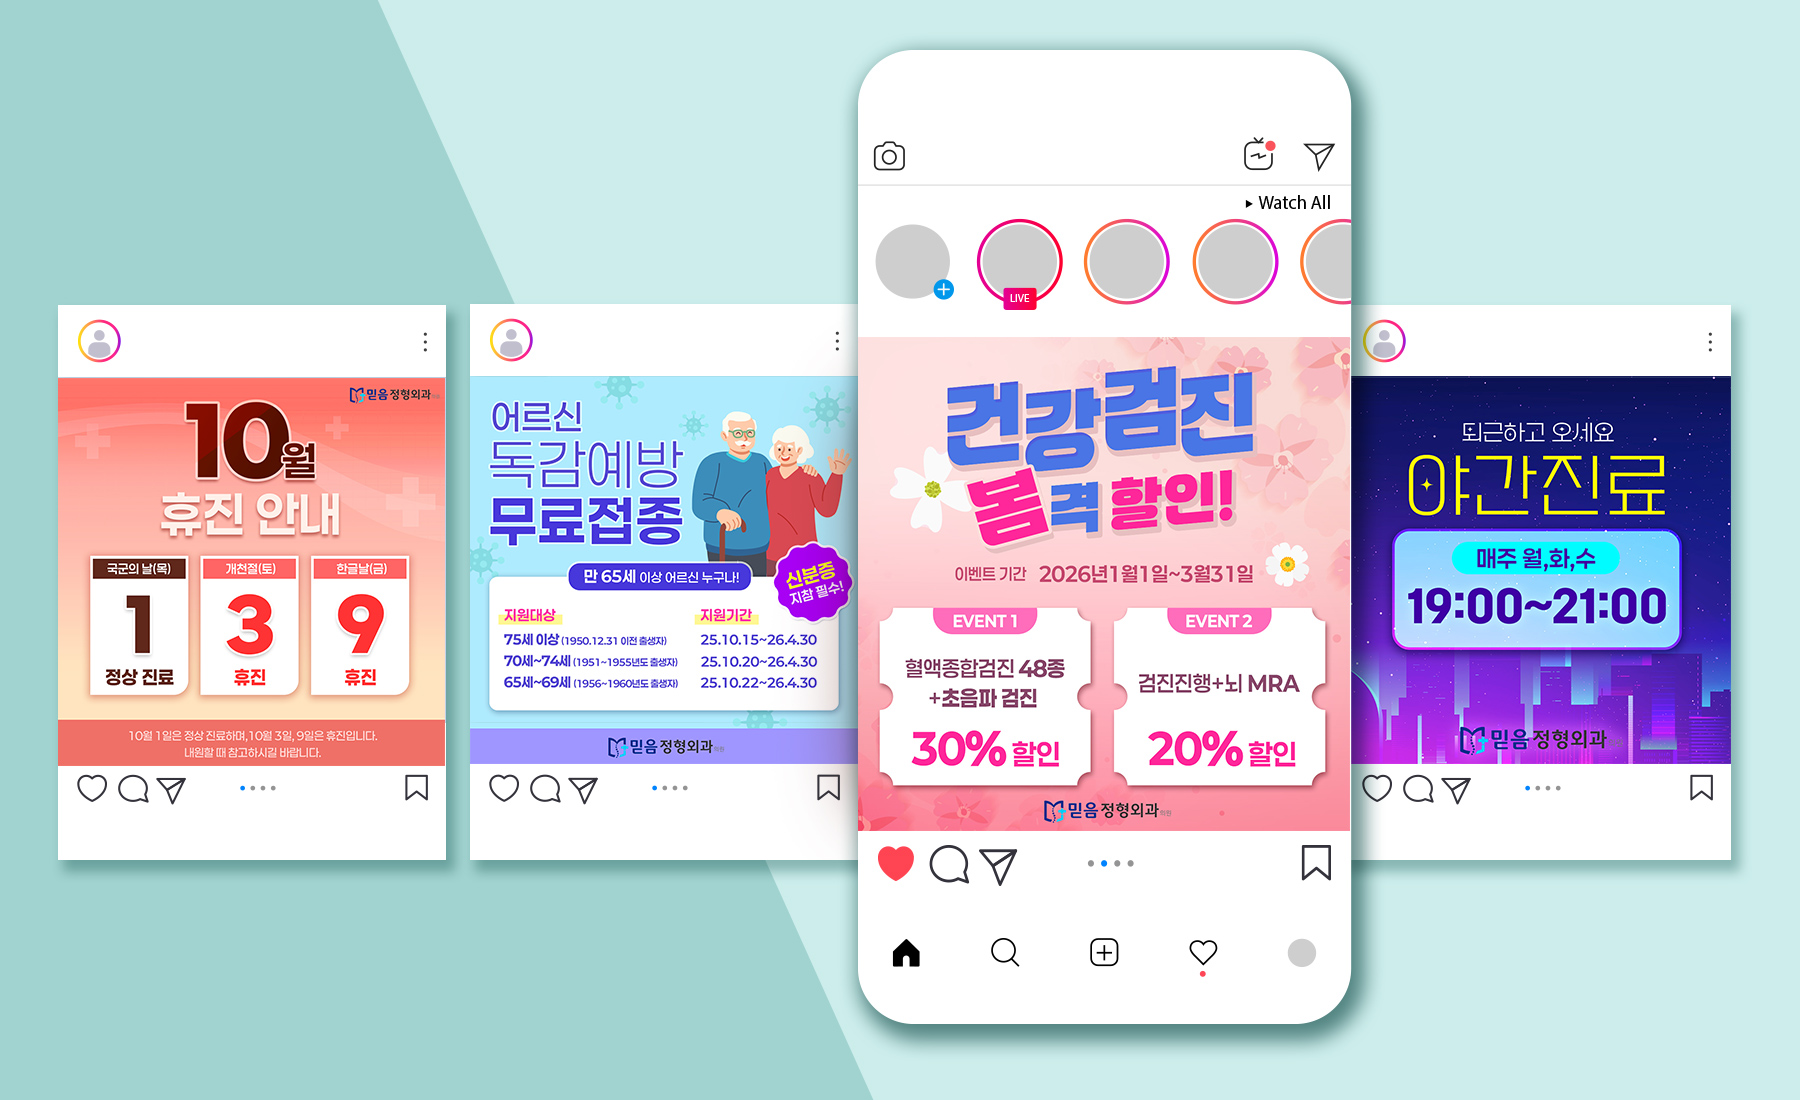
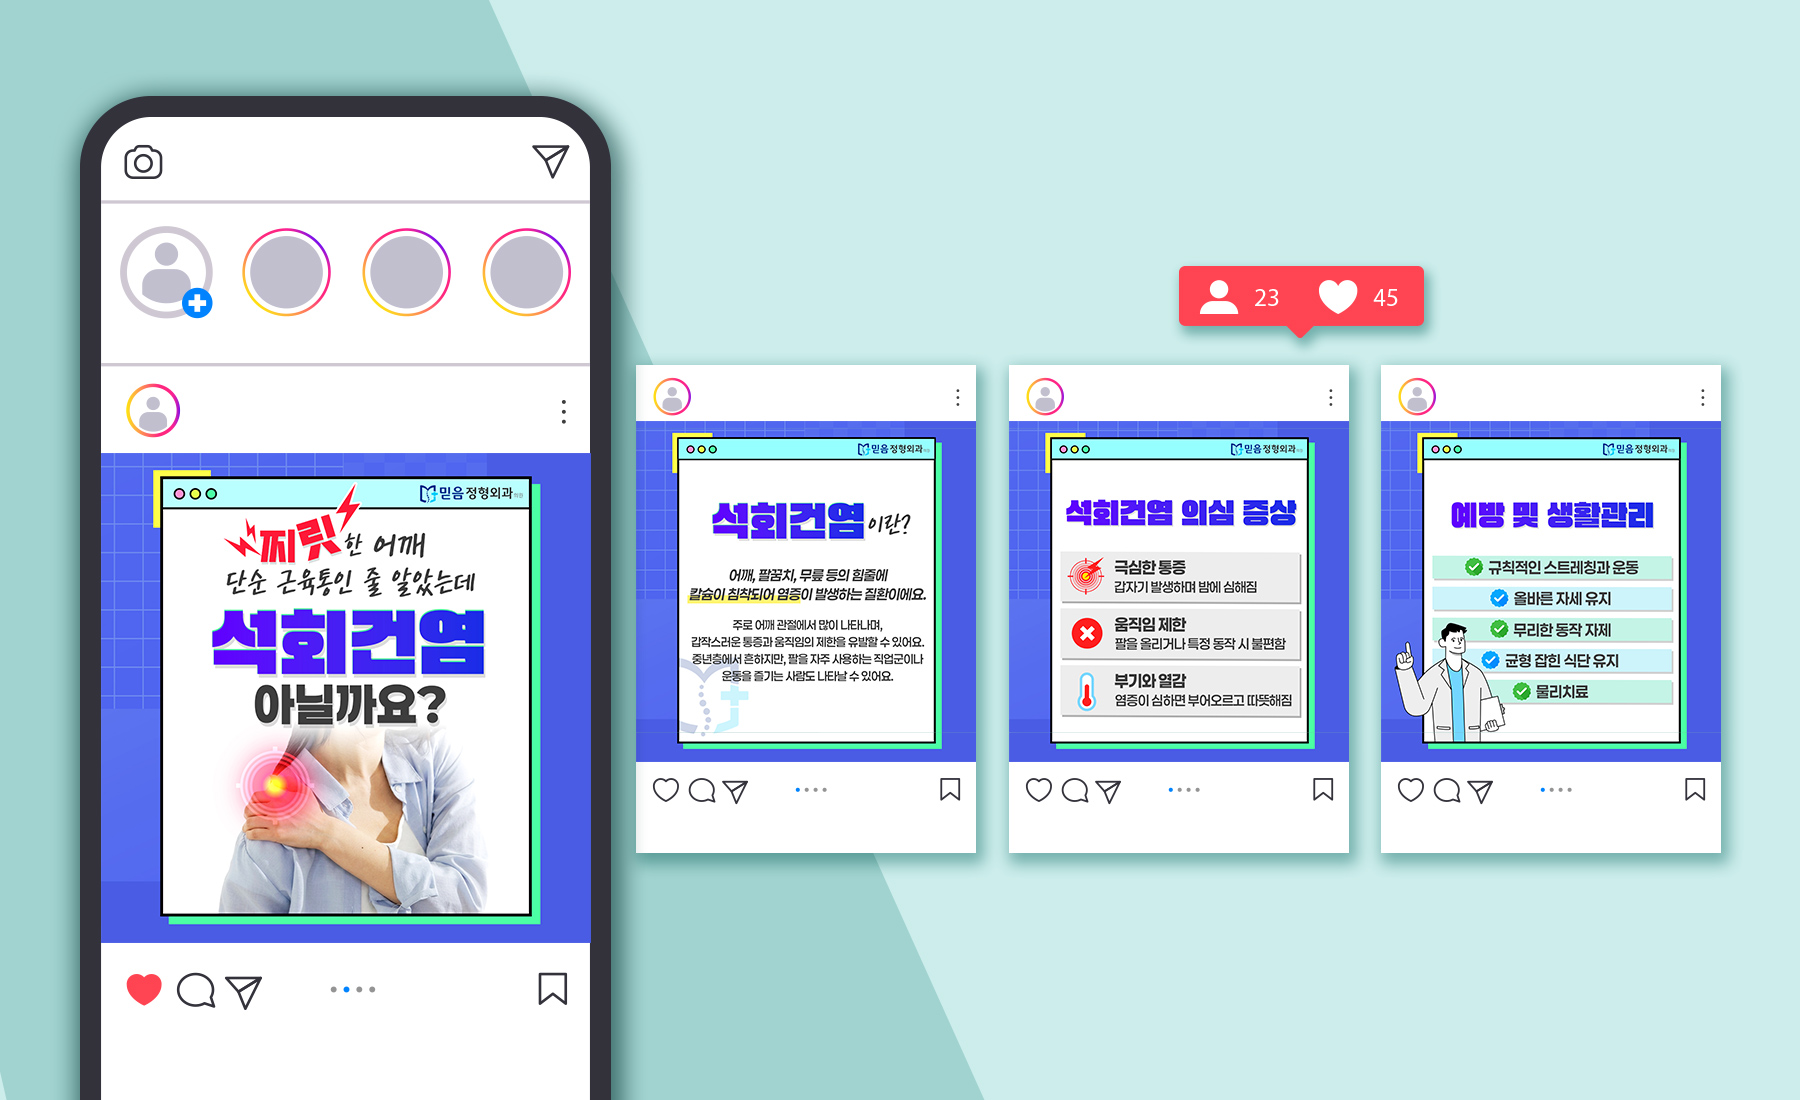
Add files via upload

diff --git a/index.html b/index.html
@@ -178,6 +178,13 @@ nav.scrolled { border-bottom-color: var(--border); }
   gap: 16px;
   padding: 16px 24px 24px;
 }
+/* 병원 마케팅 섹션: 프로젝트 2개 → 2열로 꽉 채움 */
+.projects-grid.grid-2col {
+  grid-template-columns: repeat(2, 1fr);
+}
+.projects-grid.grid-2col .project-thumb {
+  aspect-ratio: 81/28; /* 27/14의 1.5배 가로 비율 → 다른 섹션과 높이 동일 */
+}
 .project-item {
   cursor: pointer;
   position: relative;
@@ -793,6 +800,8 @@ nav.scrolled { border-bottom-color: var(--border); }
 }
 @media (max-width:800px) {
   .projects-grid { grid-template-columns:repeat(2,1fr); }
+  /* 800px 이하에서는 모든 섹션이 2열이므로 병원 섹션도 기본 썸네일 비율로 복원 */
+  .projects-grid.grid-2col .project-thumb { aspect-ratio: 27/14; }
   nav { padding:0 16px; }
   .nav-logo { font-size: 12px; letter-spacing: 0.04em; }
   .nav-tabs-group { gap: 14px; }
@@ -988,10 +997,20 @@ nav.scrolled { border-bottom-color: var(--border); }
     <p class="main-name">BOYOUNG KIM</p>
     <p class="main-role">Game Marketing Designer</p>
   </div>
-  <span class="slide-counter"><span id="slideNum">01</span> / 10</span>
+  <span class="slide-counter"><span id="slideNum">01</span> / 11</span>
 
   <div class="slideshow">
     <div class="slide active">
+      <img src="main10.jpg"        class="slide-bg slide-bg-landscape" alt="">
+      <img src="main10-mobile.jpg" class="slide-bg slide-bg-portrait"  alt="" style="object-fit:contain; background:#f0eee9;">
+      <div class="slide-info"><div><p class="slide-title">리뉴의원</p><p class="slide-tag">인스타그램 피드, 광고배너 2026</p></div></div>
+    </div>
+    <div class="slide">
+      <img src="main11.jpg"        class="slide-bg slide-bg-landscape" alt="">
+      <img src="main11-mobile.jpg" class="slide-bg slide-bg-portrait"  alt="" style="object-fit:contain; background:#f0eee9;">
+      <div class="slide-info"><div><p class="slide-title">믿음정형외과의원</p><p class="slide-tag">인스타그램 피드, 옥외광고 · 2026</p></div></div>
+    </div>
+    <div class="slide">
       <!-- PC: main1.jpg (가로형) / 모바일: main1-mobile.jpg (세로형 1200x1500) -->
       <img src="main1.jpg"        class="slide-bg slide-bg-landscape" alt="">
       <img src="main1-mobile.jpg" class="slide-bg slide-bg-portrait"  alt="" style="object-fit:contain; background:#1a0e2e;">
@@ -1037,16 +1056,6 @@ nav.scrolled { border-bottom-color: var(--border); }
       <img src="main9-mobile.jpg" class="slide-bg slide-bg-portrait"  alt="" style="object-fit:contain; background:#f0eee9;">
       <div class="slide-info"><div><p class="slide-title">Poster Archive</p><p class="slide-tag">포스터 · 2015</p></div></div>
     </div>
-    <div class="slide">
-      <img src="main10.jpg"        class="slide-bg slide-bg-landscape" alt="">
-      <img src="main10-mobile.jpg" class="slide-bg slide-bg-portrait"  alt="" style="object-fit:contain; background:#f0eee9;">
-      <div class="slide-info"><div><p class="slide-title">리뉴의원</p><p class="slide-tag">인스타그램 피드, 광고배너 2026</p></div></div>
-    </div>
-    <div class="slide">
-      <img src="main11.jpg"        class="slide-bg slide-bg-landscape" alt="">
-      <img src="main11-mobile.jpg" class="slide-bg slide-bg-portrait"  alt="" style="object-fit:contain; background:#f0eee9;">
-      <div class="slide-info"><div><p class="slide-title">믿음정형외과의원</p><p class="slide-tag">인스타그램 피드, 옥외광고 · 2026</p></div></div>
-    </div>
   </div>
 
 
@@ -1054,6 +1063,32 @@ nav.scrolled { border-bottom-color: var(--border); }
 
 <!-- ══ PAGE: PROJECTS ══ -->
 <div id="page-projects" class="page">
+
+  <div class="projects-section-divider">
+    <div class="projects-section-line"></div>
+    <span class="projects-section-label">Medical Ad Design</span>
+    <div class="projects-section-line"></div>
+  </div>
+
+  <div class="projects-grid grid-2col">
+    <div class="project-item" onclick="openDetail(10)">
+      <div class="project-thumb">
+        <img src="sns1-default.jpg" class="project-img default" alt="">
+        <div class="project-hover-overlay">
+          <p class="project-hover-title">리뉴의원</p>
+        </div>
+      </div>
+    </div>
+
+    <div class="project-item" onclick="openDetail(11)">
+      <div class="project-thumb">
+        <img src="sns2-default.jpg" class="project-img default" alt="">
+        <div class="project-hover-overlay">
+          <p class="project-hover-title">믿음정형외과의원</p>
+        </div>
+      </div>
+    </div>
+  </div>
 
   <div class="projects-section-divider">
     <div class="projects-section-line"></div>
@@ -1193,32 +1228,6 @@ nav.scrolled { border-bottom-color: var(--border); }
     </div>
 
   </div><!-- /projects-grid editorial -->
-
-  <div class="projects-section-divider">
-    <div class="projects-section-line"></div>
-    <span class="projects-section-label">Medical Ad Design</span>
-    <div class="projects-section-line"></div>
-  </div>
-
-  <div class="projects-grid">
-    <div class="project-item" onclick="openDetail(10)">
-      <div class="project-thumb">
-        <img src="sns1-default.jpg" class="project-img default" alt="">
-        <div class="project-hover-overlay">
-          <p class="project-hover-title">리뉴의원</p>
-        </div>
-      </div>
-    </div>
-
-    <div class="project-item" onclick="openDetail(11)">
-      <div class="project-thumb">
-        <img src="sns2-default.jpg" class="project-img default" alt="">
-        <div class="project-hover-overlay">
-          <p class="project-hover-title">믿음정형외과의원</p>
-        </div>
-      </div>
-    </div>
-  </div>
 
 </div>
 
